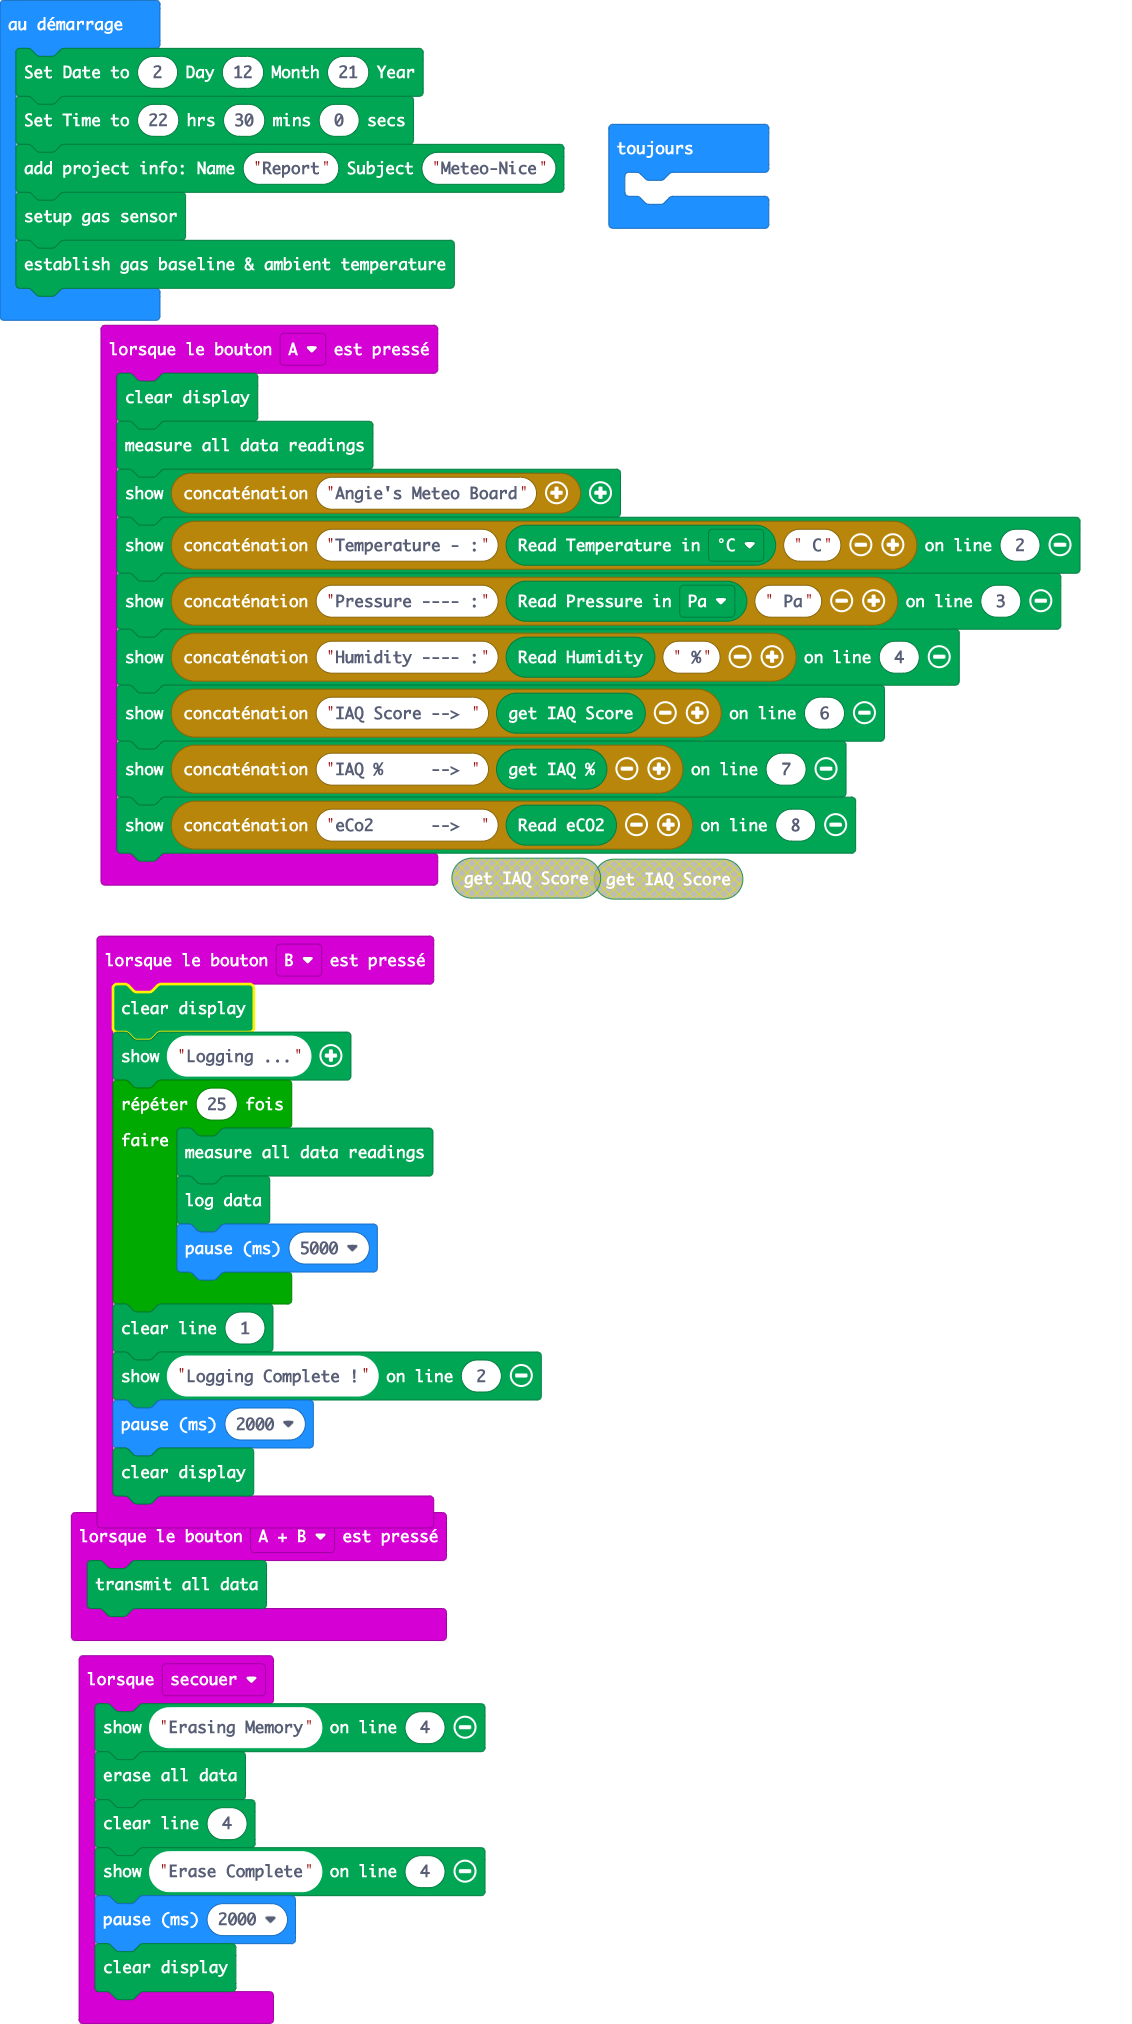
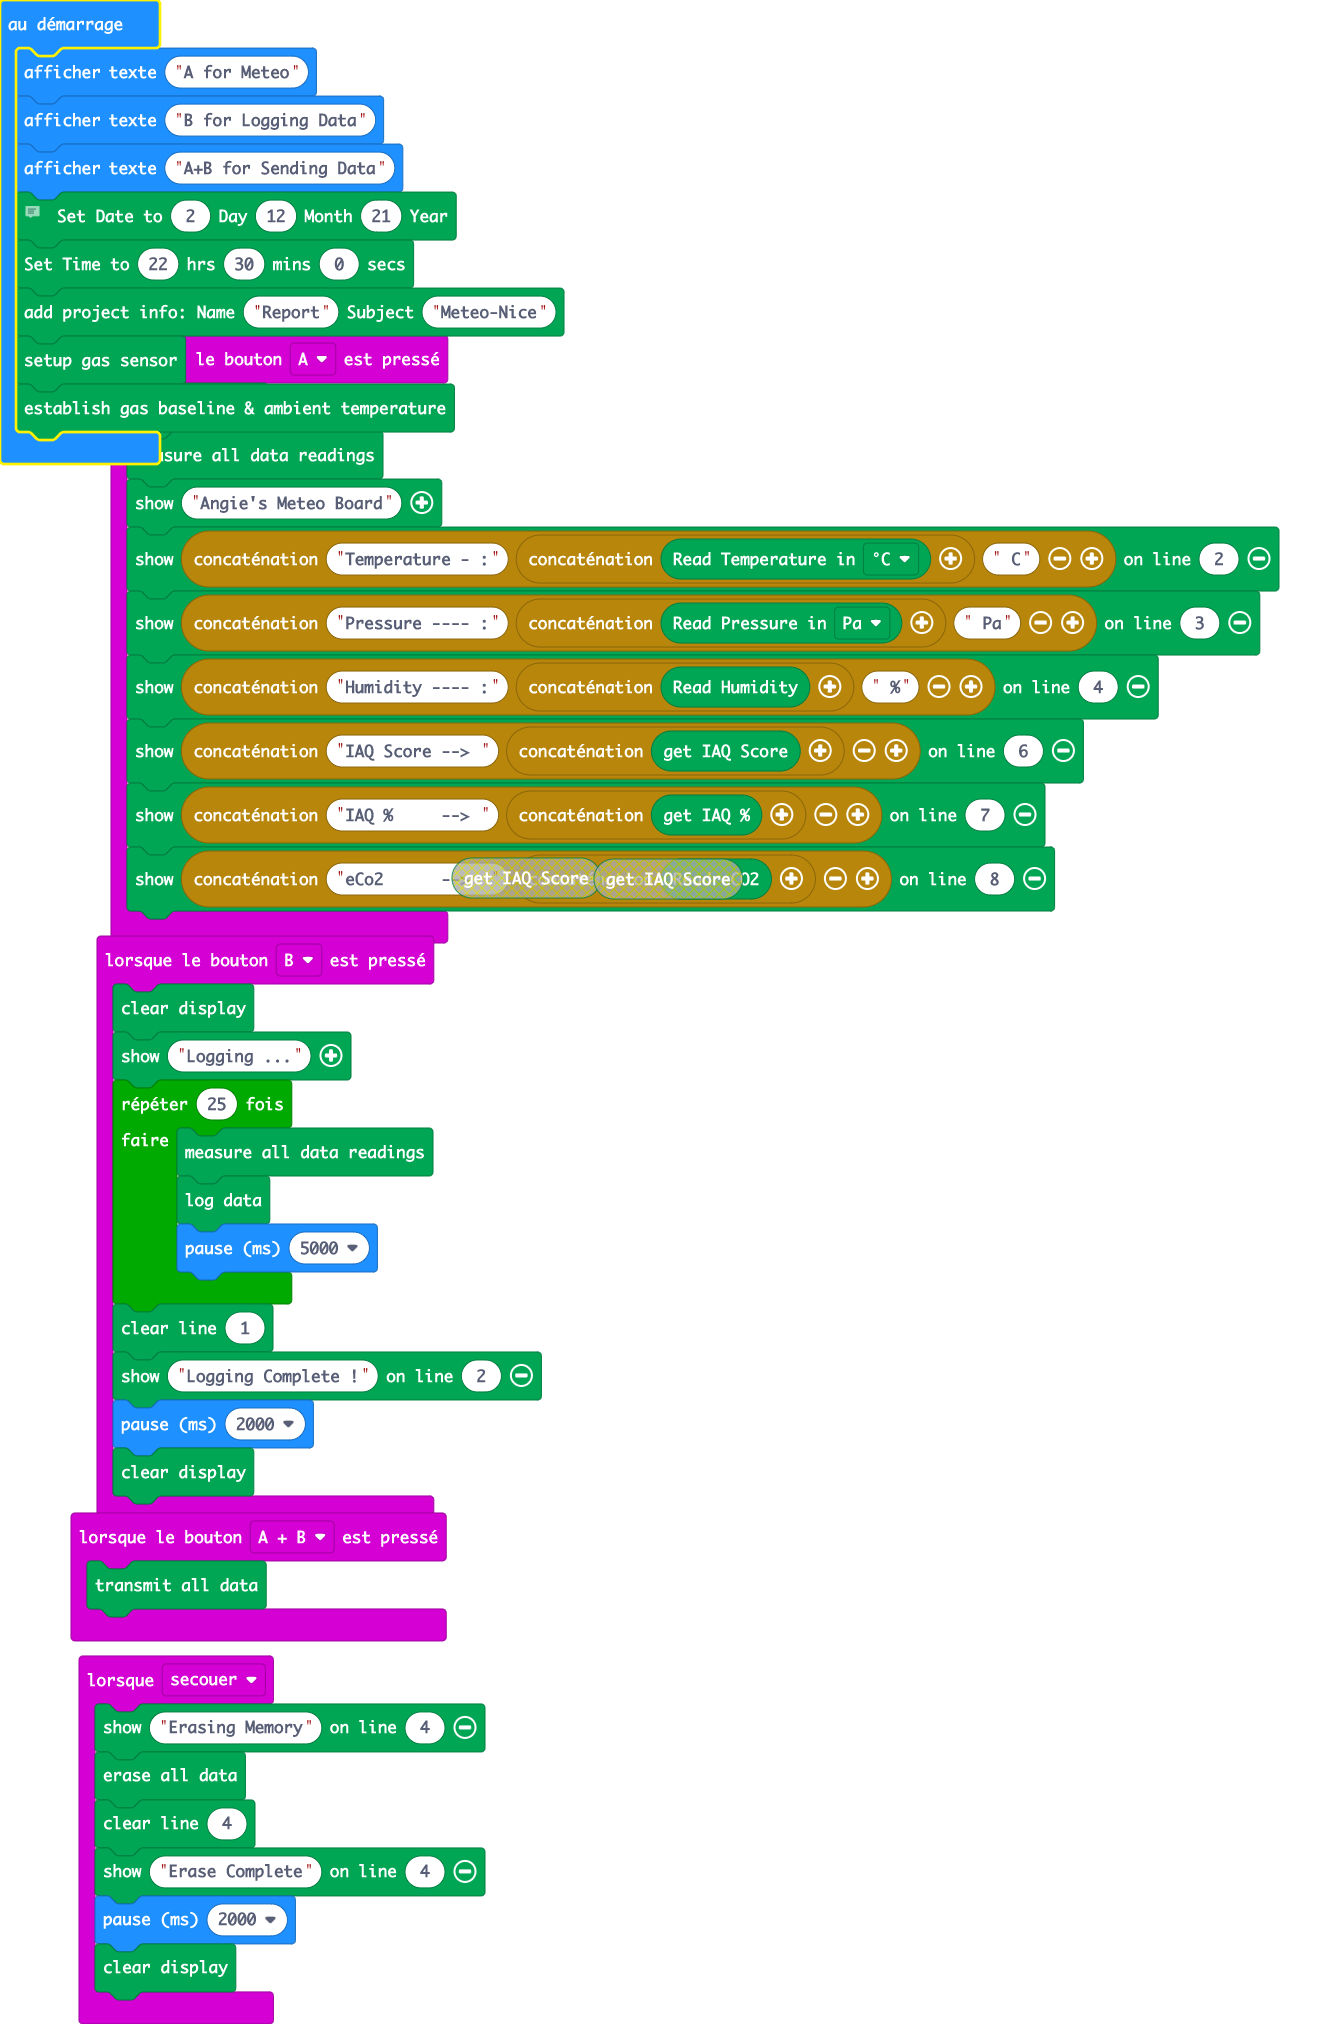
scrolling usage message on start

Changed region(s): [[0.0, 0.0, 0.9585, 1.0]]

diff --git a/main.ts b/main.ts
@@ -1,4 +1,4 @@
-input.onButtonPressed(Button.A, function on_button_pressed_a() {
+input.onButtonPressed(Button.A, function () {
     kitronik_air_quality.clear()
     kitronik_air_quality.measureData()
     kitronik_air_quality.show("Angie's Meteo Board")
@@ -9,10 +9,10 @@ input.onButtonPressed(Button.A, function on_button_pressed_a() {
     kitronik_air_quality.show("IAQ %     --> " + ("" + kitronik_air_quality.getAirQualityPercent()), 7)
     kitronik_air_quality.show("eCo2      -->  " + ("" + kitronik_air_quality.readeCO2()), 8)
 })
-input.onButtonPressed(Button.AB, function on_button_pressed_ab() {
+input.onButtonPressed(Button.AB, function () {
     kitronik_air_quality.sendAllData()
 })
-input.onButtonPressed(Button.B, function on_button_pressed_b() {
+input.onButtonPressed(Button.B, function () {
     kitronik_air_quality.clear()
     kitronik_air_quality.show("Logging ...")
     for (let index = 0; index < 25; index++) {
@@ -25,7 +25,7 @@ input.onButtonPressed(Button.B, function on_button_pressed_b() {
     basic.pause(2000)
     kitronik_air_quality.clear()
 })
-input.onGesture(Gesture.Shake, function on_gesture_shake() {
+input.onGesture(Gesture.Shake, function () {
     kitronik_air_quality.show("Erasing Memory", 4)
     kitronik_air_quality.eraseData()
     kitronik_air_quality.clearLine(4)
@@ -33,11 +33,12 @@ input.onGesture(Gesture.Shake, function on_gesture_shake() {
     basic.pause(2000)
     kitronik_air_quality.clear()
 })
+basic.showString("A for Meteo")
+basic.showString("B for Logging Data")
+basic.showString("A+B for Sending Data")
+// Date and Time are not really persistant and will be reseted to harcoded values on turn On
 kitronik_air_quality.setDate(2, 12, 21)
 kitronik_air_quality.setTime(22, 30, 0)
 kitronik_air_quality.addProjectInfo("Report", "Meteo-Nice")
 kitronik_air_quality.setupGasSensor()
 kitronik_air_quality.calcBaselines()
-basic.forever(function on_forever() {
-    
-})
